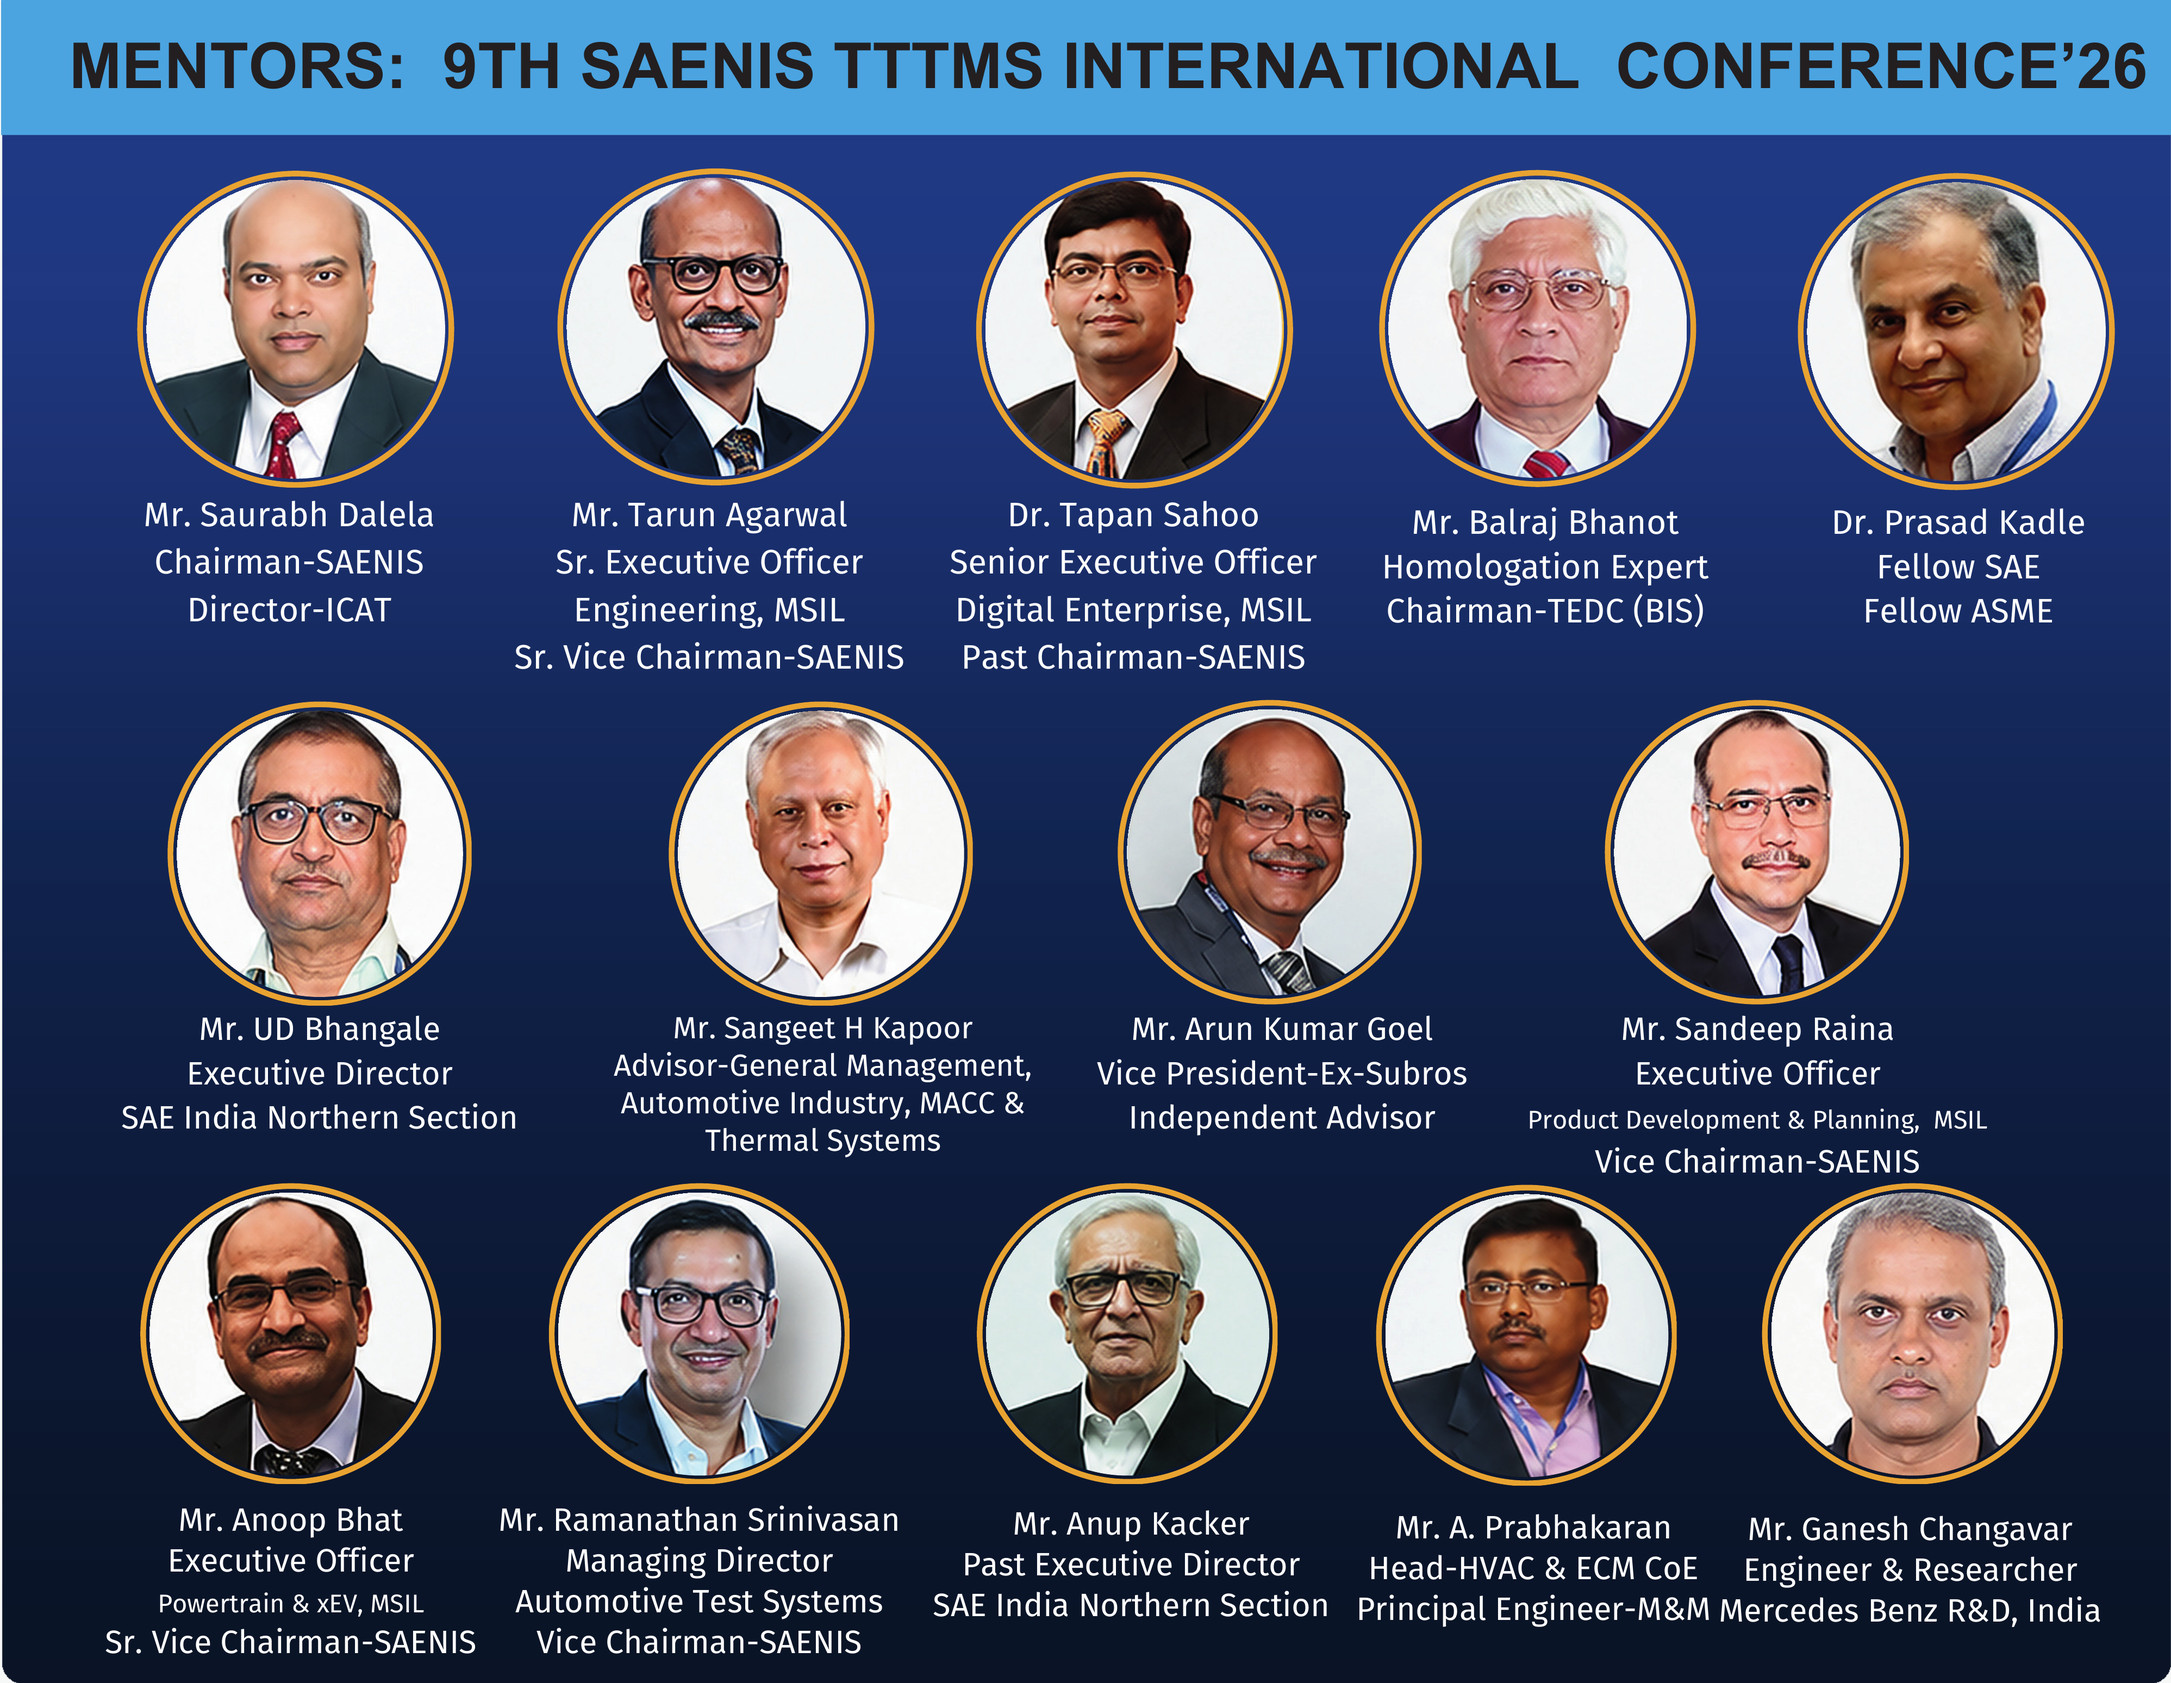
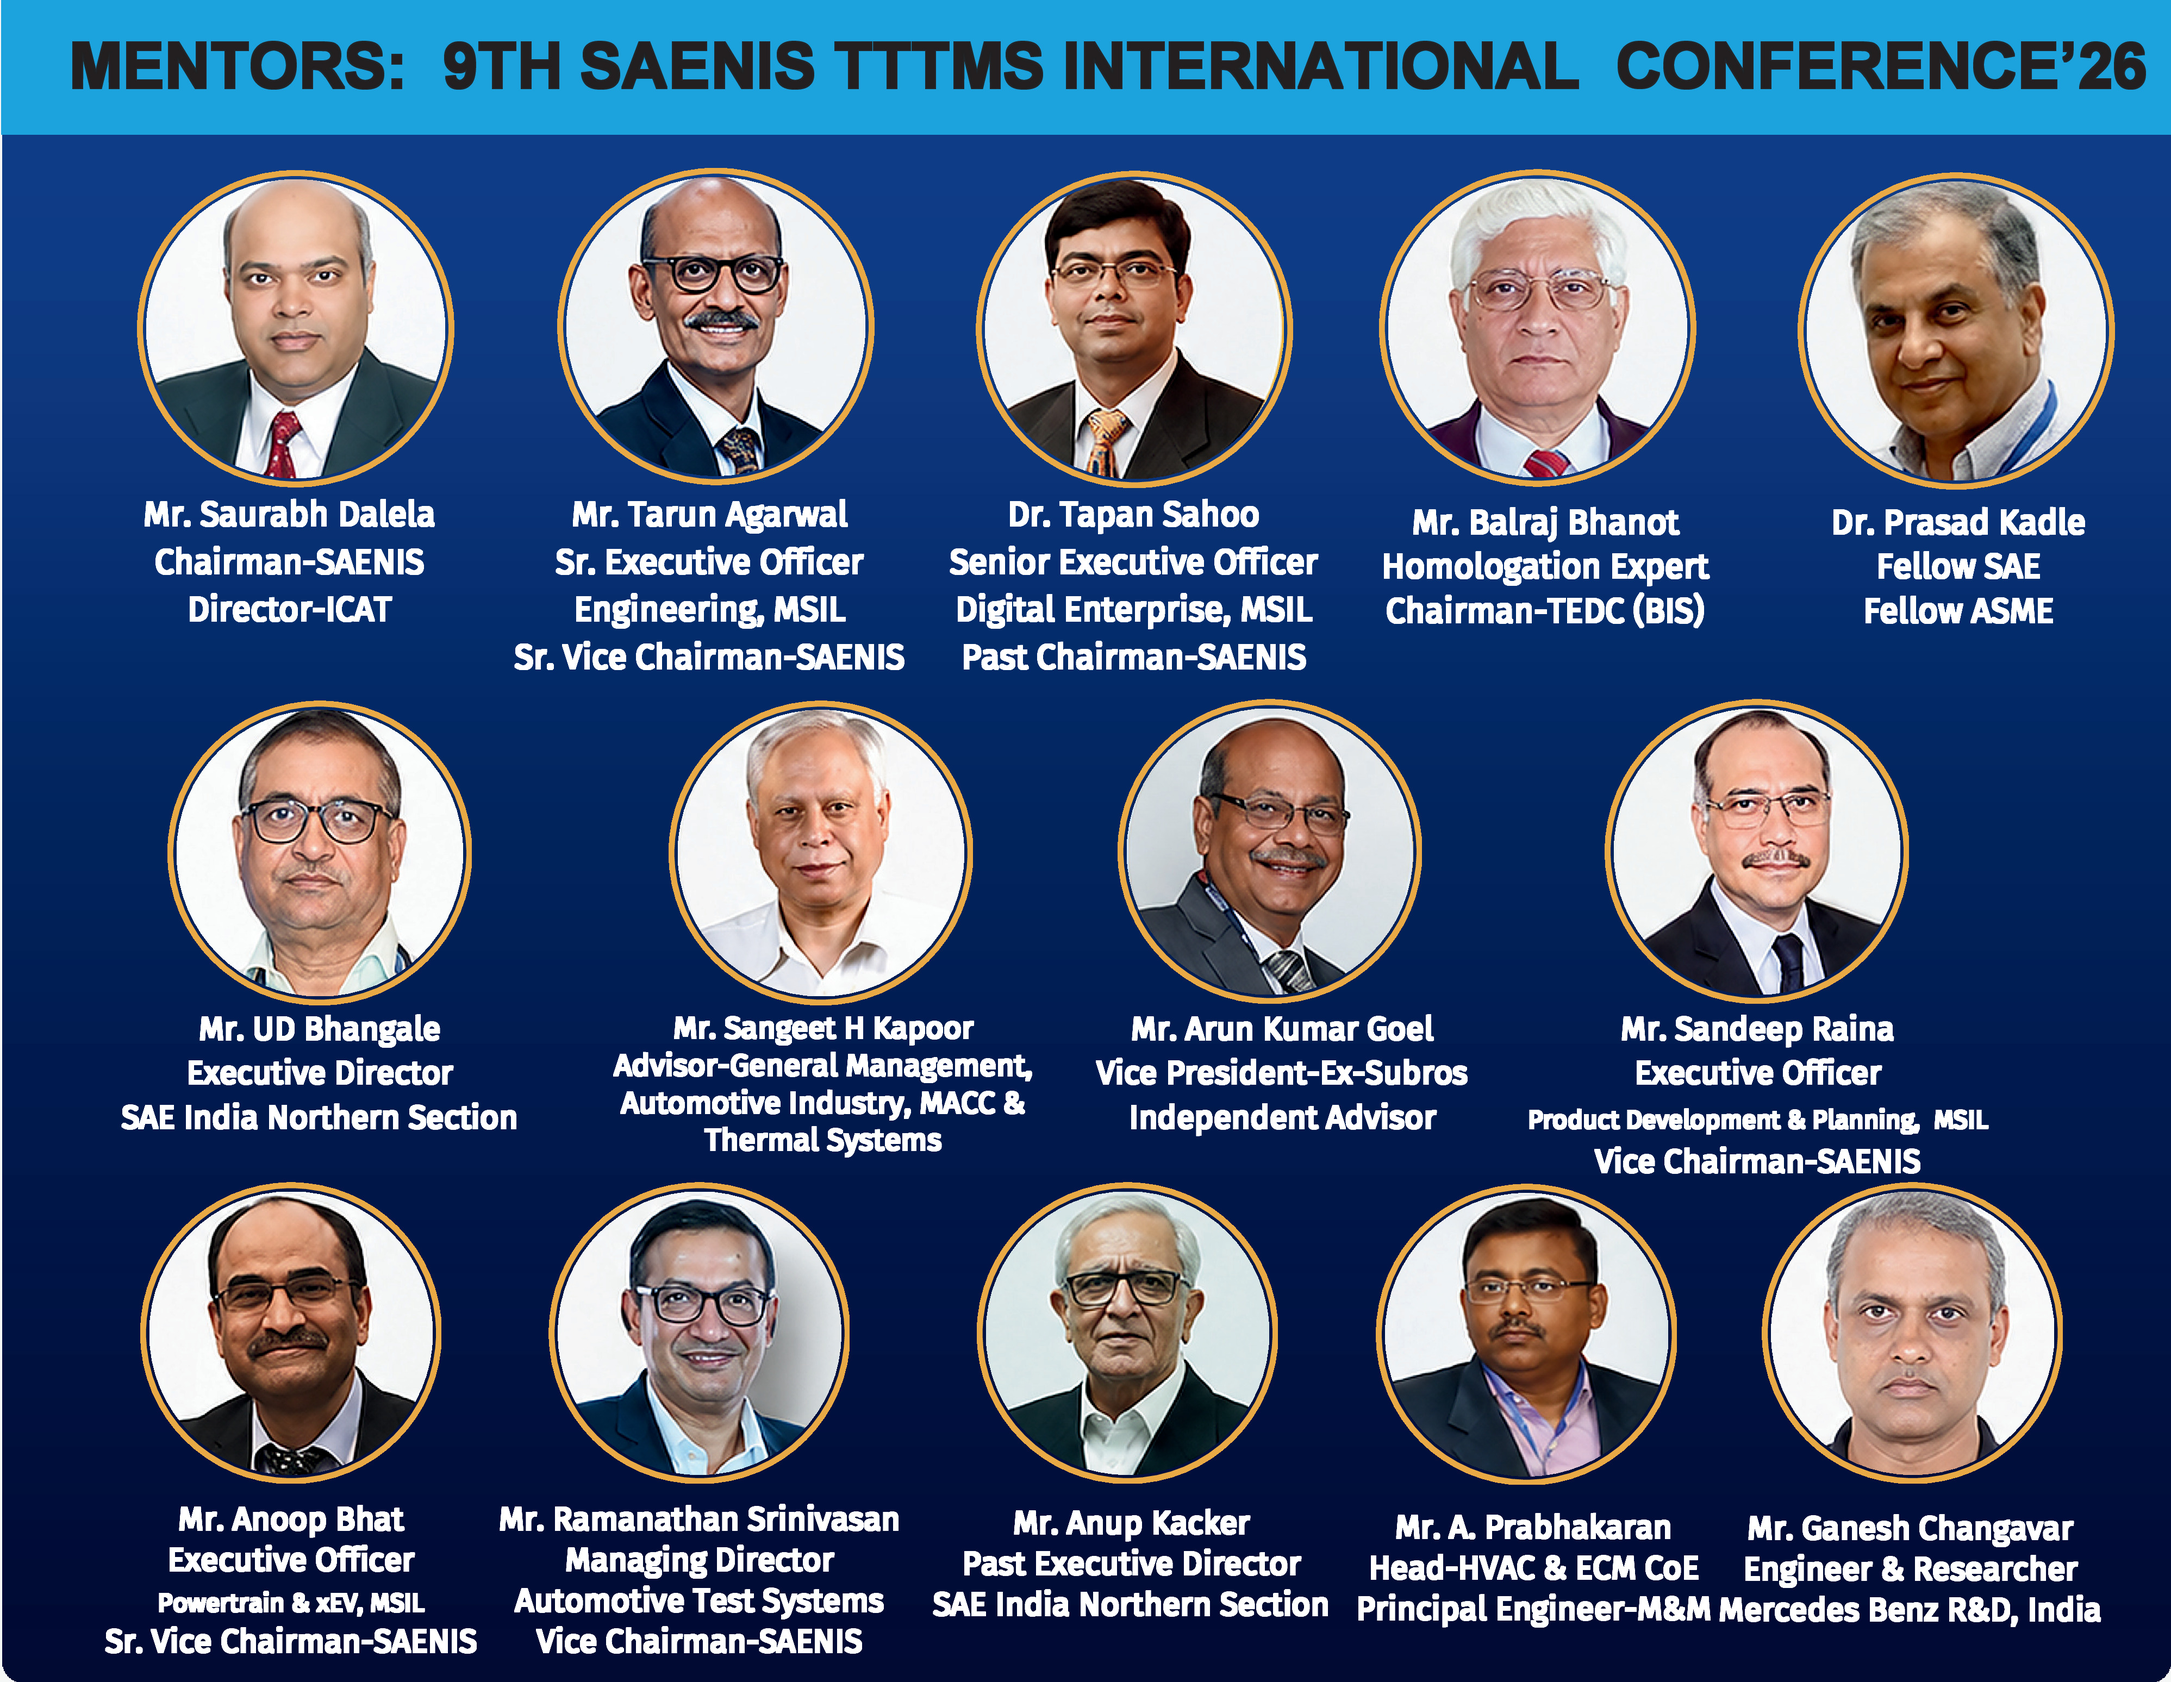
Return to poster style for Mentors & OC with bolder text
- Re-render both posters from the PDFs with the text layer thickened
  (photos and design untouched); HD JPG for zoom/download, WebP for page
- Restore poster section (frame, zoom viewer, Download HD) using shared ZoomViewer
- Remove the card-based People sections and cropped photos

diff --git a/components/SaeIndiaImageSection.tsx b/components/SaeIndiaImageSection.tsx
@@ -1,0 +1,95 @@
+'use client';
+
+import { useState } from 'react';
+import { Download, Maximize2, ZoomIn } from 'lucide-react';
+import ZoomViewer from '@/components/ZoomViewer';
+
+type SaeIndiaImageSectionProps = {
+  id: string;
+  title: string;
+  subtitle?: string;
+  /** Optimized image shown on the page */
+  imageSrc: string;
+  /** Full-resolution image used in the zoom viewer + download */
+  fullSrc?: string;
+  width: number;
+  height: number;
+};
+
+export default function SaeIndiaImageSection({
+  id,
+  title,
+  subtitle,
+  imageSrc,
+  fullSrc,
+  width,
+  height,
+}: SaeIndiaImageSectionProps) {
+  const [open, setOpen] = useState(false);
+  const full = fullSrc ?? imageSrc;
+  const alt = `${title} — 9th SAENIS TTTMS International Conference 2026 (SAEINDIA)`;
+
+  return (
+    <section id={id} className="section-shell bg-gradient-to-b from-black via-slate-950 to-black">
+      <div className="absolute inset-0 overflow-hidden pointer-events-none">
+        <div className="absolute top-1/3 left-1/4 h-72 w-72 rounded-full bg-cyan-500/5 blur-3xl" />
+        <div className="absolute bottom-1/4 right-1/4 h-80 w-80 rounded-full bg-purple-500/5 blur-3xl" />
+      </div>
+
+      <div className="relative z-10 mx-auto w-full max-w-6xl">
+        <p className="mb-2 text-center text-xs font-bold uppercase tracking-[0.2em] text-cyan-400/90 sm:text-sm">
+          SAEINDIA
+        </p>
+        <h2 className="section-title mb-2 text-center">{title}</h2>
+        {subtitle ? (
+          <p className="mx-auto mb-6 max-w-2xl text-center text-sm text-slate-400 sm:text-base">{subtitle}</p>
+        ) : (
+          <div className="mb-6" />
+        )}
+
+        {/* Glowing frame */}
+        <div className="group relative rounded-3xl bg-gradient-to-br from-cyan-400/60 via-blue-500/40 to-purple-500/60 p-[2px] shadow-[0_0_60px_-15px_rgba(34,211,238,0.45)] transition-shadow duration-500 hover:shadow-[0_0_80px_-10px_rgba(34,211,238,0.6)]">
+          <button
+            type="button"
+            onClick={() => setOpen(true)}
+            aria-label={`Open ${title} in zoom viewer`}
+            className="relative block w-full cursor-zoom-in overflow-hidden rounded-[calc(1.5rem-2px)] bg-slate-950 p-1.5 sm:p-2.5 focus:outline-none focus-visible:ring-2 focus-visible:ring-cyan-400"
+          >
+            {/* eslint-disable-next-line @next/next/no-img-element */}
+            <img
+              src={imageSrc}
+              alt={alt}
+              width={width}
+              height={height}
+              loading="lazy"
+              decoding="async"
+              className="h-auto w-full rounded-2xl object-contain transition-transform duration-700 ease-[cubic-bezier(0.22,1,0.36,1)] group-hover:scale-[1.01]"
+            />
+            <span className="pointer-events-none absolute bottom-3 right-3 flex items-center gap-1.5 rounded-full border border-white/20 bg-black/65 p-2 sm:px-3 sm:py-1.5 text-xs font-semibold text-white shadow-lg backdrop-blur-md transition-all duration-300 sm:bottom-6 sm:right-6 sm:translate-y-2 sm:text-sm sm:opacity-0 sm:group-hover:translate-y-0 sm:group-hover:opacity-100">
+              <ZoomIn className="h-4 w-4" /> <span className="hidden sm:inline">Click to zoom</span>
+            </span>
+          </button>
+        </div>
+
+        <div className="mt-4 flex flex-wrap items-center justify-center gap-3">
+          <button
+            type="button"
+            onClick={() => setOpen(true)}
+            className="inline-flex items-center gap-2 rounded-full border border-cyan-500/40 bg-cyan-500/10 px-4 py-2 text-sm font-semibold text-cyan-300 transition hover:bg-cyan-500/20 hover:text-white"
+          >
+            <Maximize2 className="h-4 w-4" /> View full screen
+          </button>
+          <a
+            href={full}
+            download
+            className="inline-flex items-center gap-2 rounded-full border border-purple-500/40 bg-purple-500/10 px-4 py-2 text-sm font-semibold text-purple-300 transition hover:bg-purple-500/20 hover:text-white"
+          >
+            <Download className="h-4 w-4" /> Download HD
+          </a>
+        </div>
+      </div>
+
+      {open && <ZoomViewer src={full} alt={alt} title={title} onClose={() => setOpen(false)} />}
+    </section>
+  );
+}

diff --git a/app/page.tsx b/app/page.tsx
@@ -5,7 +5,7 @@ import Theme from '@/components/Theme';
 import Schedule from '@/components/Schedule';
 import AdvisoryBoard from '@/components/AdvisoryBoard';
 import Patrons from '@/components/Patrons';
-import { Mentors, OrganizingCommittee } from '@/components/People';
+import SaeIndiaImageSection from '@/components/SaeIndiaImageSection';
 import Glimpses from '@/components/Glimpses';
 import Venue from '@/components/Venue';
 import Register from '@/components/Register';
@@ -54,10 +54,26 @@ export default function Home() {
         <Patrons />
 
         {/* Mentors — 9th SAENIS */}
-        <Mentors />
+        <SaeIndiaImageSection
+          id="mentors"
+          title="Mentors"
+          subtitle="Distinguished industry leaders guiding the 9th SAENIS TTTMS International Conference 2026"
+          imageSrc="/sareindia/mentors-9th-tttms26.webp?v=7"
+          fullSrc="/sareindia/mentors-9th-tttms26-full.jpg?v=7"
+          width={2400}
+          height={1860}
+        />
 
         {/* Organizing Committee — TTTMS’26 */}
-        <OrganizingCommittee />
+        <SaeIndiaImageSection
+          id="oc-members"
+          title="Organizing Committee"
+          subtitle="The team from industry and academia driving TTTMS’26"
+          imageSrc="/sareindia/organizing-committee-tttms26.webp?v=5"
+          fullSrc="/sareindia/organizing-committee-tttms26-full.jpg?v=5"
+          width={2400}
+          height={2400}
+        />
 
         {/* Glimpses from Past Editions */}
         <Glimpses />
